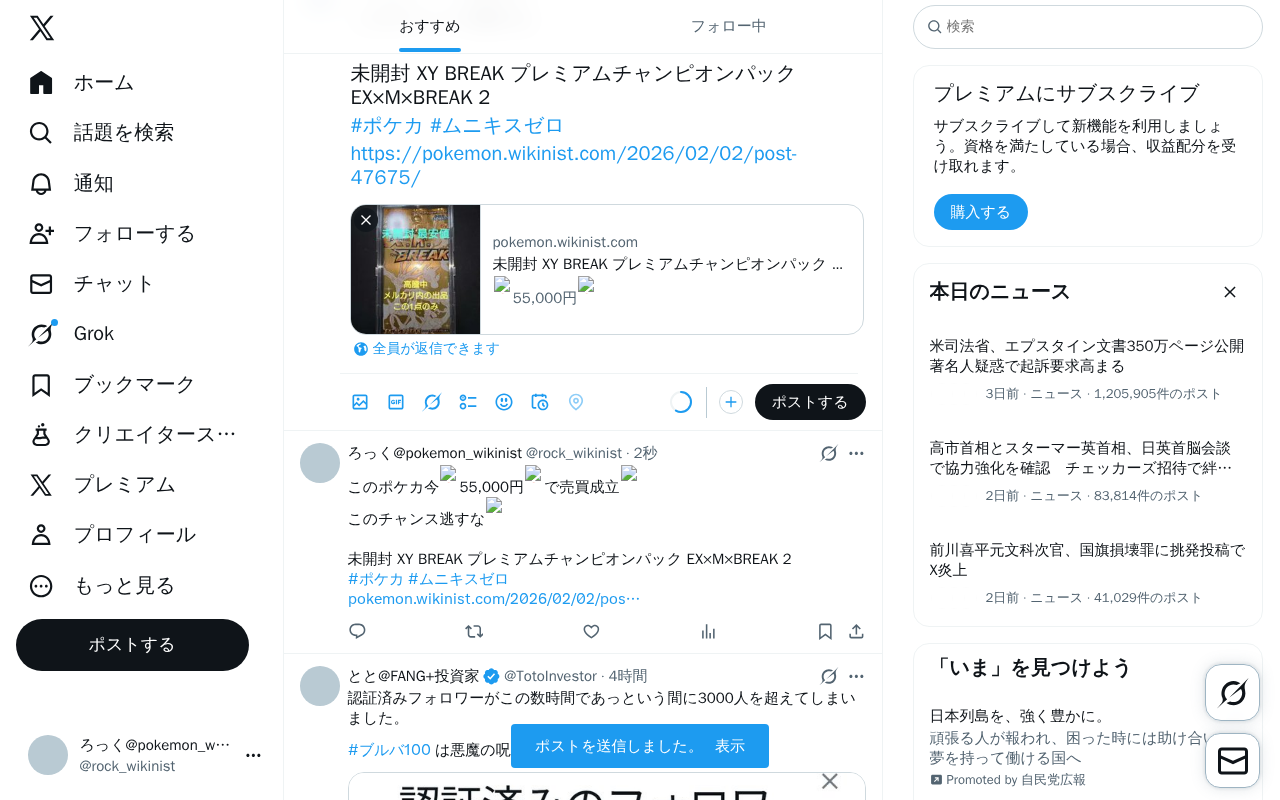
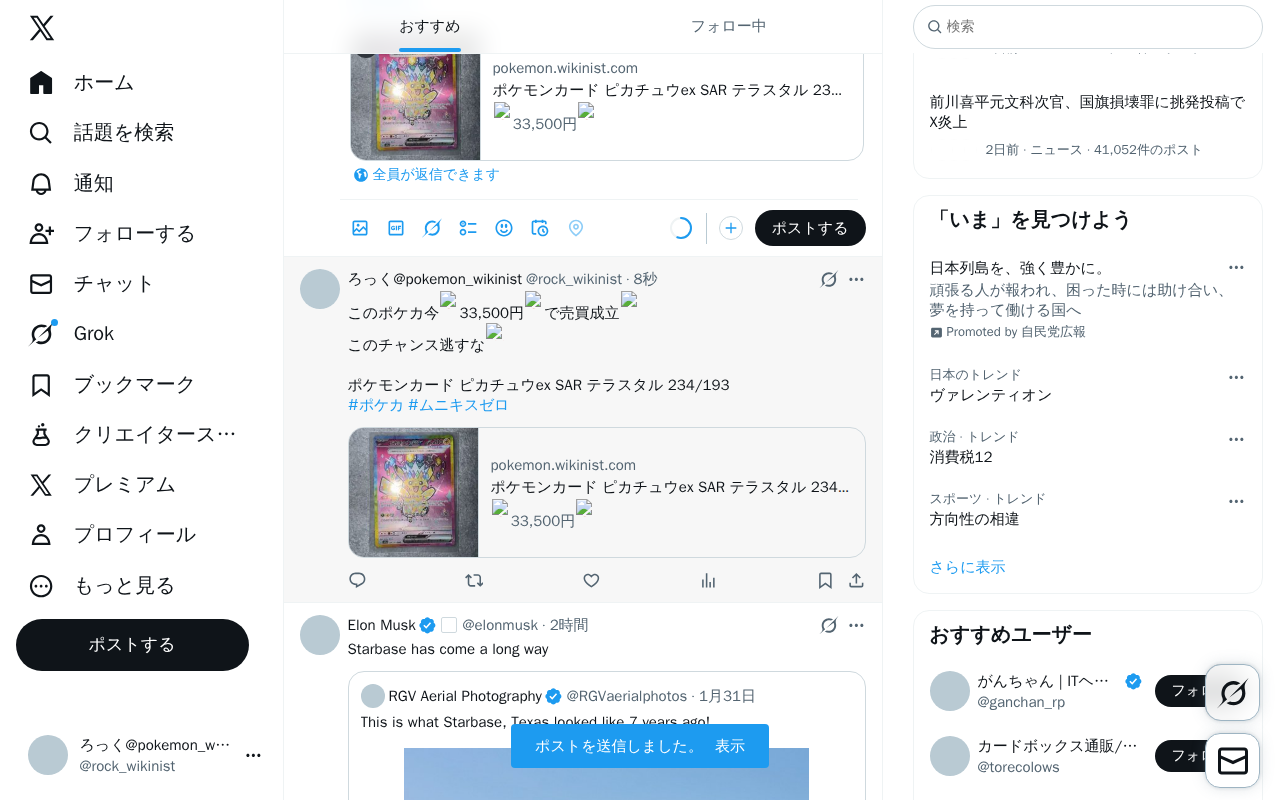
update system data

diff --git a/content/posts/test-pokemon-20260202-174820.md b/content/posts/test-pokemon-20260202-174820.md
@@ -1,0 +1,38 @@
+---
+title: "ポケモンカード ピカチュウex SAR テラスタル 234/193"
+date: 2026-02-02T17:48:20+09:00
+description: "🔥33,500円🔥 メルカリで「ポケモンカード ピカチュウex SAR テラスタル 234/193」が販売中！"
+amazon_url: "https://jp.mercari.com/item/m31824997943?afid=1391290753"
+robotsNoIndex: true
+categories: ["ポケモン"]
+tags: ["ピカチュウ", "3万円以上"]
+cover:
+  image: "https://static.mercdn.net/thumb/item/webp/m31824997943_1.jpg?1770021493"
+  hiddenInList: true
+  hiddenInSingle: true
+---
+
+<div class="image-and-buttons">
+    <div class="image-area" style="margin-bottom: 20px; text-align: center;">
+        <a href="https://jp.mercari.com/item/m31824997943?afid=1391290753" target="_blank" rel="nofollow sponsored noopener noreferrer">
+            <img src="https://static.mercdn.net/thumb/item/webp/m31824997943_1.jpg?1770021493" alt="33,500" style="max-width: 100%; border-radius: 8px; border: 1px solid #ddd;" />
+        </a>
+        <br><span style="font-size:1.5em;color:red;font-weight:bold;">🔥33,500円🔥</span>
+    </div>
+    <div class="link-buttons">
+        <a href="https://jp.mercari.com/item/m31824997943?afid=1391290753" target="_blank" rel="nofollow sponsored noopener noreferrer">
+            💎 商品状態を見る
+        </a>
+        <a href="https://jp.mercari.com/search?afid=1391290753&category_id=1289&keyword=%E3%83%9D%E3%82%B1%E3%83%A2%E3%83%B3%E3%82%AB%E3%83%BC%E3%83%89%20%E3%83%94%E3%82%AB%E3%83%81%E3%83%A5%E3%82%A6ex%20SAR%20%E3%83%86%E3%83%A9%E3%82%B9%E3%82%BF%E3%83%AB%20234%2F193" target="_blank" rel="nofollow sponsored noopener noreferrer">
+            🔍 類似商品を見る
+        </a>
+        <a href="https://jp.mercari.com/search?afid=1391290753&brand_id=&category_id=1289&color_id=&item_condition_id=&item_types=&keyword=%E3%83%9D%E3%82%B1%E3%83%A2%E3%83%B3%E3%82%AB%E3%83%BC%E3%83%89%20%E3%83%94%E3%82%AB%E3%83%81%E3%83%A5%E3%82%A6ex%20SAR%20%E3%83%86%E3%83%A9%E3%82%B9%E3%82%BF%E3%83%AB%20234%2F193&order=desc&shipping_method=&shipping_payer_id=&size_id=&sort=created_time&status=sold_out%2Ctrading" target="_blank" rel="nofollow sponsored noopener noreferrer">
+            📈 価格推移・履歴を見る
+        </a>
+    </div>
+</div>
+
+<p style="font-size:1.0em;color:#555;line-height:1.6;">
+「ポケモンカード ピカチュウex SAR テラスタル 234/193」はメルカリに出品されました！<br>
+最新のポケモン情報は当サイトで随時更新中です。
+</p>
